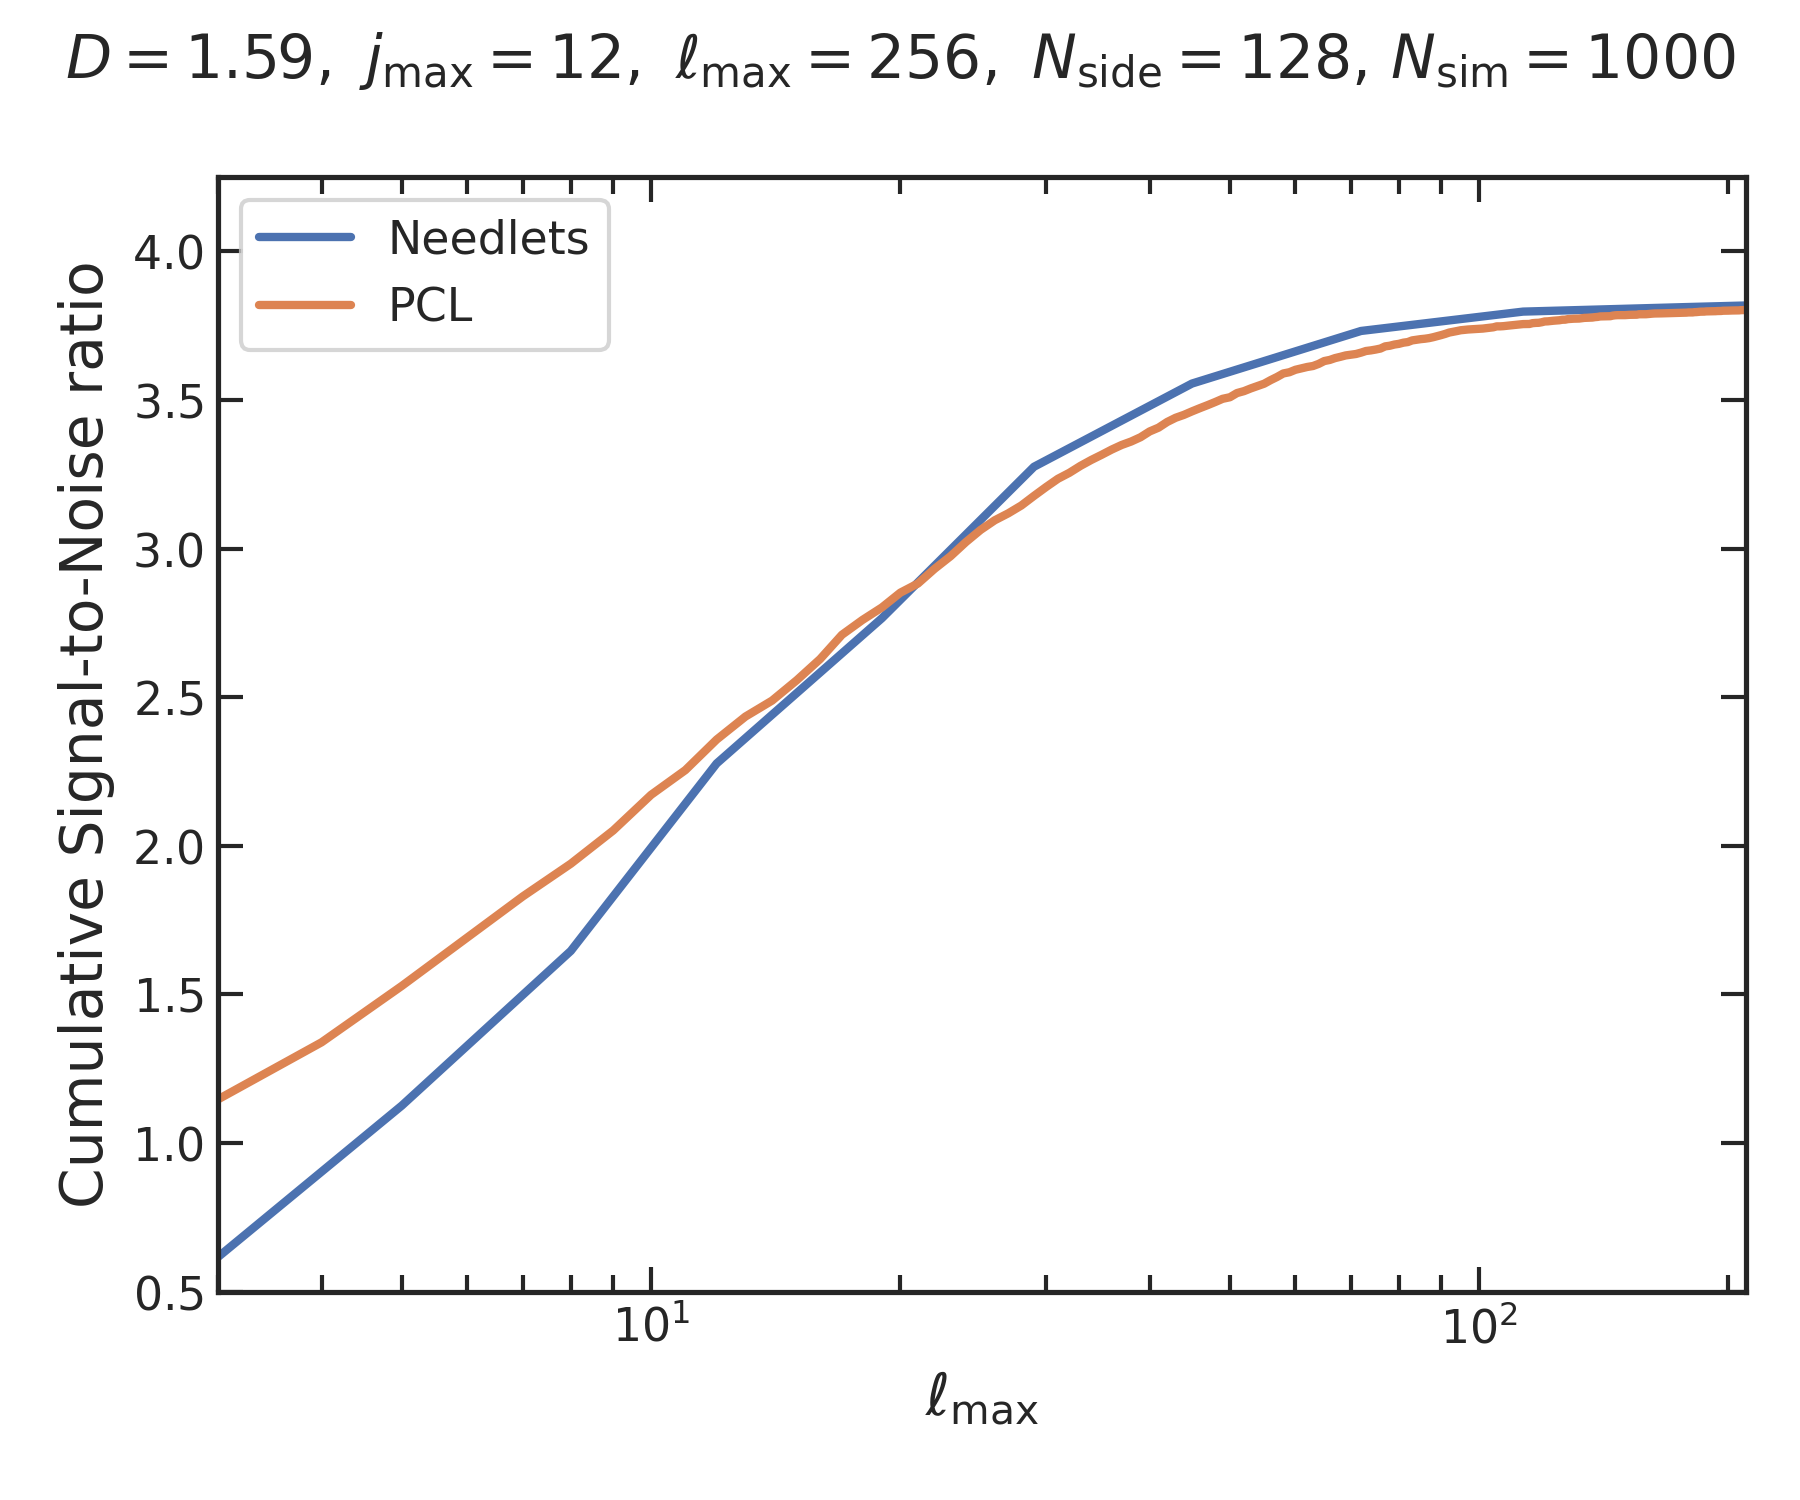
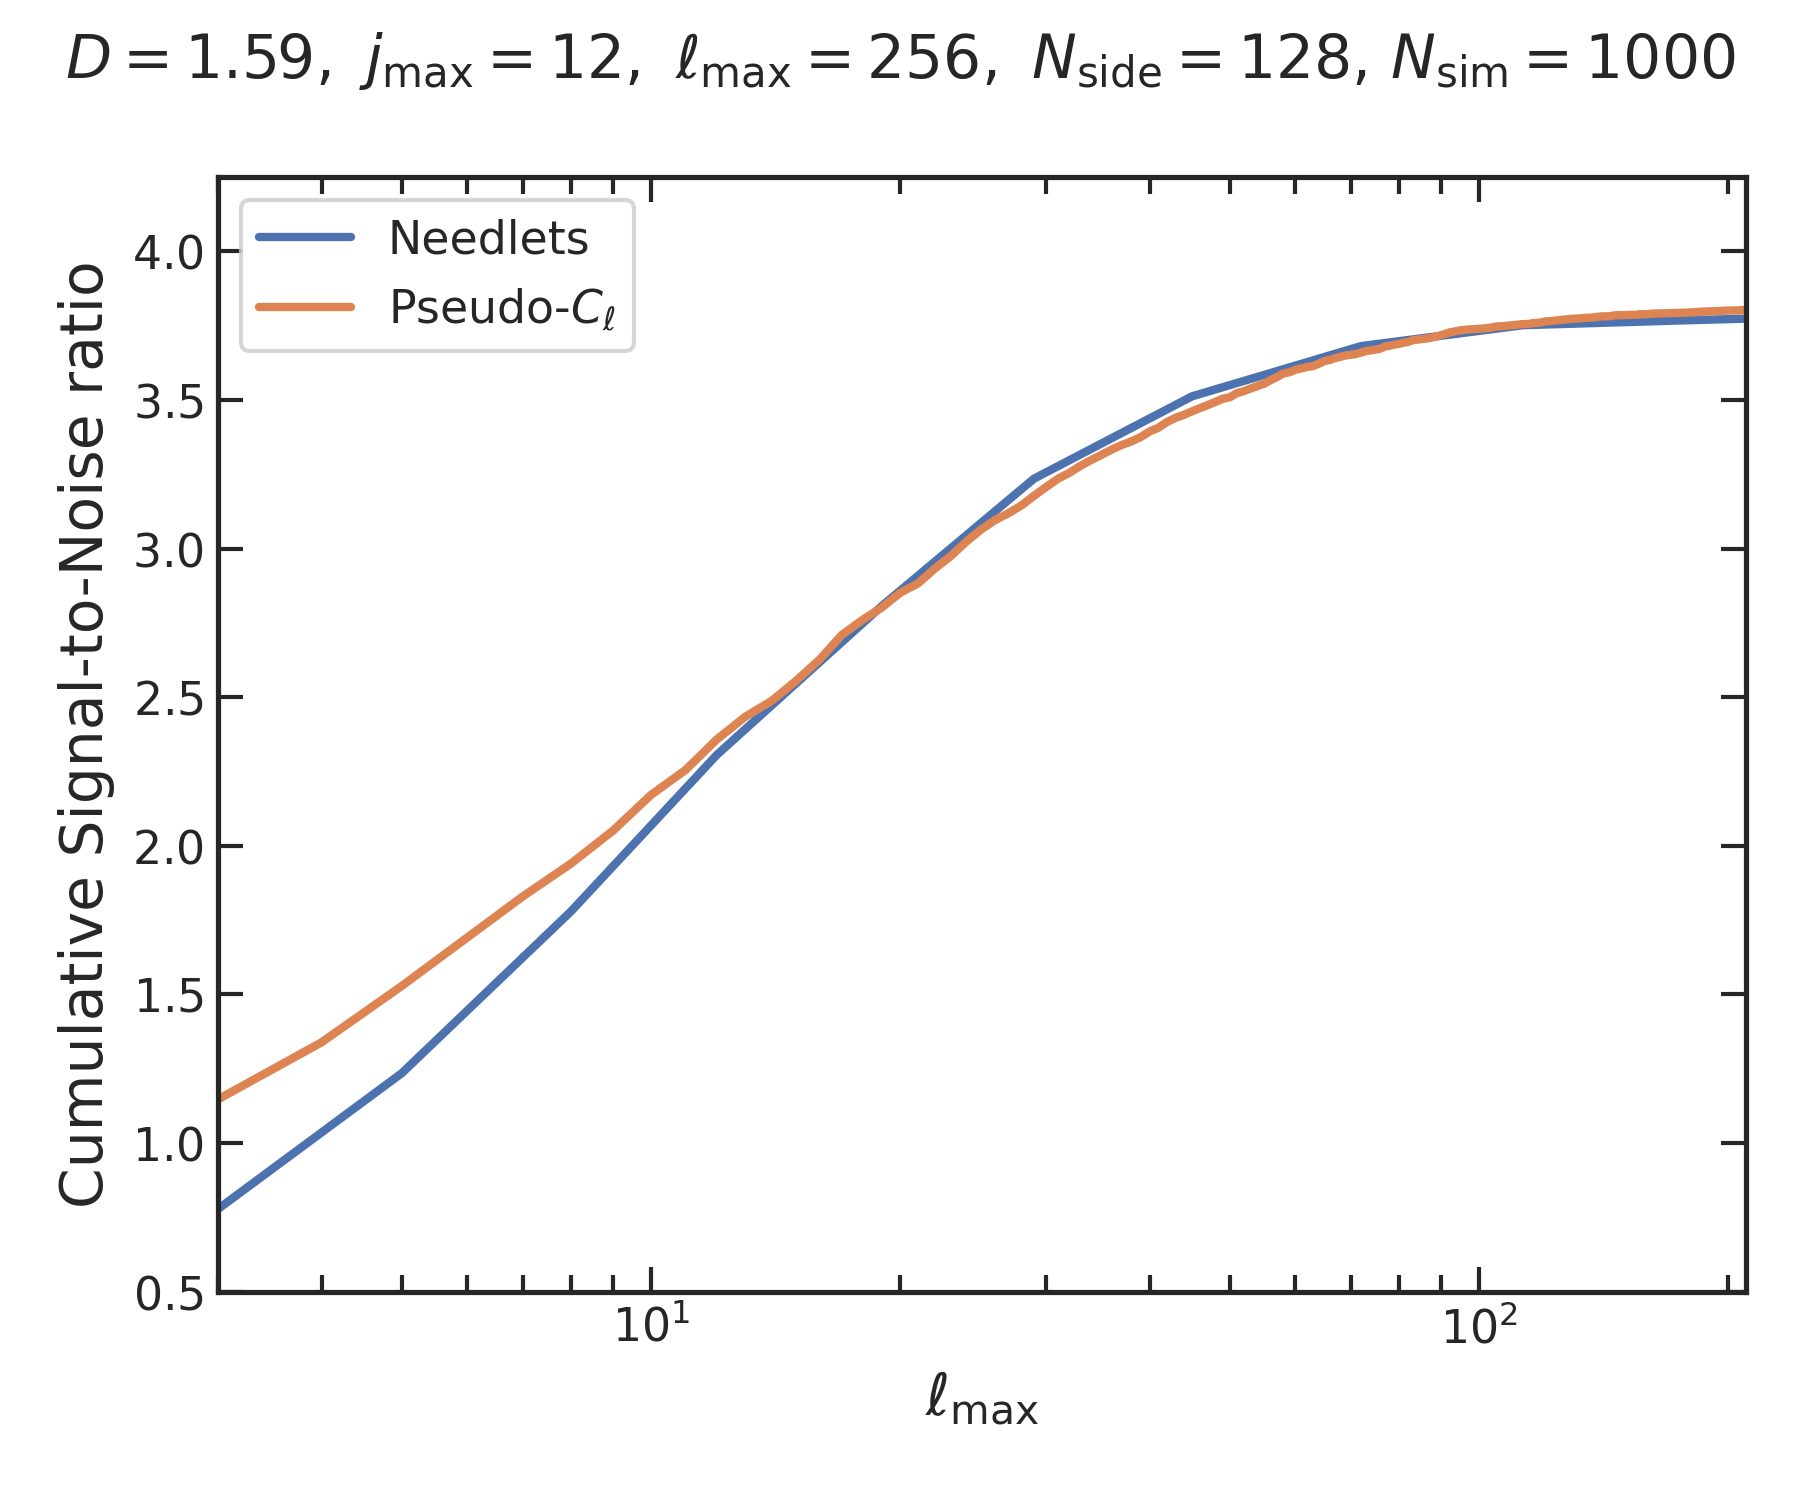
fixed some plots

diff --git a/src/S2N_new.py b/src/S2N_new.py
@@ -1,0 +1,304 @@
+#!/usr/bin/env python
+import numpy as np
+import matplotlib
+#matplotlib.use('Qt5Agg')
+
+import matplotlib.pyplot as plt
+from matplotlib import rc, rcParams, gridspec
+import healpy as hp
+from astropy.io import fits
+import os
+import cython_mylibc as mylibc
+import analysis, spectra, sims
+from IPython import embed
+import seaborn as sns
+sns.set_theme()
+sns.set_theme(style = 'white')
+pal = sns.color_palette("crest", n_colors=13)
+pal_cmap = sns.color_palette("crest", n_colors=13, as_cmap=True)
+
+sns.set_theme(style = 'white')
+plt.rcParams['lines.linewidth']  = 2.
+plt.rcParams['axes.labelsize']  =14
+plt.rcParams['xtick.major.width'] = 1
+plt.rcParams['ytick.major.width'] = 1
+plt.rcParams['xtick.minor.width'] = 1
+plt.rcParams['ytick.minor.width'] = 1
+plt.rcParams['savefig.dpi']=300
+
+import matplotlib as mpl
+mpl.rc('xtick', direction='in', top=True, bottom = True)
+mpl.rc('ytick', direction='in', right=True, left = True)
+
+from matplotlib import ticker
+formatter = ticker.ScalarFormatter(useMathText=True)
+formatter.set_scientific(True) 
+formatter.set_powerlimits((-1,1)) 
+
+###########################################################################################################
+################################################################################
+###PSEUDO
+
+def cov_pseudo_cl(cltg,cltt, clgg,Mll,  Mll_1x2, lmax, fsky=1.,noise_gal_l=None):
+	"""
+	Returns the Cov(Pseudo-C_\ell, Pseudo-C_\ell') 
+	Notes
+	-----
+	Cov(Pseudo-C_\ell, Pseudo-C_\ell') .shape = (lmax+1, lmax+1)
+	"""
+	if noise_gal_l is not None:
+		clgg_tot = clgg+noise_gal_l
+	else:
+		clgg_tot = clgg
+	ell= np.arange(lmax+1)
+	covll = np.zeros((ell.shape[0],ell.shape[0]))
+	for ell1 in ell:
+		for ell2 in ell:
+			covll[ell1,ell2] = (Mll_1x2[ell1,ell2]*(cltg[ell1]*cltg[ell2])+Mll[ell1,ell2]*(np.sqrt(cltt[ell1]*cltt[ell2]*clgg_tot[ell1]*clgg_tot[ell2])))/(fsky*(2.*ell1+1))
+	return covll
+
+def cov_cl(cltg,cltt, clgg, lmax,lmin, fsky=1.,noise_gal_l=None):
+	"""
+	Returns the Cov(Pseudo-C_\ell, Pseudo-C_\ell') 
+	Notes
+	-----
+	Cov(Pseudo-C_\ell, Pseudo-C_\ell') .shape = (lmax+1, lmax+1)
+	"""
+	if noise_gal_l is not None:
+		clgg_tot = clgg+noise_gal_l
+	else:
+		clgg_tot = clgg
+	ell= np.arange(lmin, lmax+1)
+	covll = np.zeros(( ell.shape[0], ell.shape[0]))
+	for l,ell1 in enumerate(ell):
+		for ll,ell2 in enumerate(ell):
+			if l!=ll: covll[l,ll]=0
+			else:
+				covll[l,ll] = (cltg[lmin:][l]*cltg[lmin:][ll]+np.sqrt(cltt[lmin:][l]*cltt[lmin:][ll]*clgg_tot[lmin:][l]*clgg_tot[lmin:][ll]))/(fsky*(2.*ell1+1))
+	return covll
+
+
+#################################################################################################################################
+# Parameters
+simparams = {'nside'   : 128,
+			 'ngal'    : 354543085.80126834,#35454308.580126834, #dovrebbe importare solo per lo shot noise (noise poissoniano)
+ 		 	 'ngal_dim': 'ster',
+		 	 'pixwin'  : False}
+
+nside = simparams['nside']
+
+lmax = 256
+nsim = 1000
+jmax= 12
+jvec=np.arange(jmax+1)
+# Paths
+fname_xcspectra = 'spectra/inifiles/EUCLID_fiducial_lmin0.dat'
+sims_dir        = f'sims/Euclid_sims_Marina/NSIDE{nside}/'
+out_dir         = f'output_needlet_TG/EUCLID/Mask_noise/TG_{nside}_nsim{nsim}_2masks_1/'
+path_inpainting = 'inpainting/inpainting.py'
+
+
+cl_theory = np.loadtxt('spectra/inifiles/EUCLID_fiducial_lmin0.dat')
+ell_theory = cl_theory[0]
+cl_theory_tt = cl_theory[1]
+cl_theory_tg = cl_theory[2]
+cl_theory_gg = cl_theory[3]
+
+#####################################################################
+# Loading theory spectra
+xcspectra = spectra.XCSpectraFile(fname_xcspectra,   WantTG = True)
+
+# Simulations class
+simulations = sims.KGsimulations(xcspectra, sims_dir, simparams, WantTG = True)
+simulations.Run(nsim, WantTG = True, EuclidSims=True)
+
+# Needlet Analysis
+myanalysis = analysis.NeedAnalysis(jmax, lmax, out_dir, simulations)
+B=myanalysis.B
+jvec = myanalysis.jvec
+out_dir_plot    = out_dir+f'plot_D{B:1.2f}/'
+if not os.path.exists(out_dir_plot):
+		os.makedirs(out_dir_plot)
+
+# Theory Needlet theory and windows functions
+need_theory = spectra.NeedletTheory(myanalysis.B)
+b_need = need_theory.get_bneed(jmax, lmax)
+########################################################################################################
+mask_eu = hp.read_map(f'mask/EUCLID/mask_rsd2022g-wide-footprint-year-6-equ-order-13-moc_ns0{nside}_G_filled_2deg2.fits')
+mask_pl = hp.read_map(f'mask/mask_temp_ns{nside}.fits')
+
+fsky_eu = np.mean(mask_eu)
+fsky_pl = np.mean(mask_pl)
+
+mask_comb = mask_pl*mask_eu
+
+fsky_comb = np.mean(mask_comb)
+print(f'fsky_pl = {fsky_pl}, fsky_eu={fsky_eu}, fsky={fsky_comb}')
+
+del mask_eu; del mask_comb; del mask_pl
+
+Nll = np.ones(cl_theory_gg.shape[0])/simparams['ngal']
+
+with fits.open('mask/EUCLID/kern_RSD2022G_T_G_TT.fits') as hdul:
+    Mll_cross = hdul[0].data
+
+Mll_pl_eu  = np.loadtxt(f'mask/EUCLID/kernel_Euclid_Planck_TTGG_lmax{lmax}.dat')
+Mll_comb  = np.loadtxt(f'mask/EUCLID/kernel_Euclid_Planck_TGTG_lmax{lmax}.dat')
+
+gammaj_TS_galT_mask = np.loadtxt(out_dir+f'gamma_sims_TS_galT_jmax12_B_1.59_nside128_fsky0.36.dat') 
+cov_TS_galT_mask = np.loadtxt(out_dir+f'cov_TS_galT_jmax12_B_1.59_nside128_fsky0.36.dat') 
+gammaj_TS_galT_mask_mean = np.mean(gammaj_TS_galT_mask, axis=0)
+
+gammaJ_tg = np.loadtxt(out_dir+'gammaj_tg_jmax12_lmax256.dat')
+delta_gammaj = np.loadtxt(out_dir+'covariance_gammaj_tg_jmax12_lmax256.dat')
+
+###################################
+# RELATIVE DIFFERENCE ESTIMATES 
+#fig = plt.figure()
+#
+#ax = fig.add_subplot(1, 1, 1)
+#
+#ax.axhline(ls='--', color='grey')
+#
+#ax.errorbar(jvec[1:], (gammaj_TS_galT_mask_mean[1:] /gammaJ_tg[1:]-1)*100, yerr=100*np.sqrt(np.diag(delta_gammaj)[1:])/(np.sqrt(nsim)*gammaJ_tg[1:]),  fmt='o', ms=0, label='Variance of the mean from theory')
+#ax.errorbar(jvec[1:], (gammaj_TS_galT_mask_mean[1:] /gammaJ_tg[1:]-1)*100, yerr=100*np.sqrt(np.diag(cov_TS_galT_mask)[1:])/(np.sqrt(nsim)*gammaJ_tg[1:]),  ms=3,fmt='o',  label='Variance of the mean from simulations')
+#
+#ax.legend(loc='best')
+#plt.ticklabel_format(style='sci', axis='y', scilimits=(0,0))
+#ax.yaxis.set_major_formatter(formatter) 
+#ax.set_xticks(jvec[1:])
+#ax.set_xticklabels(jvec[1:])
+#ax.set_xlabel(r'$j$')
+#ax.set_ylabel(r'$\% \langle \tilde{\Gamma}_j^{TG} \rangle/\tilde{\Gamma}_j^{TG, th}$-1')
+#
+#fig.tight_layout()
+
+
+
+###########################################################################################################
+cls_tg = np.loadtxt('cls_from_maps/EUCLID/Euclid_Planck_masks/cls_Tgalnoise_anafast_nside128_lmax256_Euclidnoise_Marina_nsim1000_fsky0.36.dat')
+cls_tg_mean=np.mean(cls_tg, axis=0)
+
+pcl = np.dot(Mll_pl_eu,cl_theory_tg[:lmax+1]) 
+cl_recovered = np.dot(np.linalg.inv(Mll_pl_eu[2:,2:]), cls_tg_mean[2:]) 
+
+
+cov_pcl_sim = np.cov(cls_tg.T)
+
+cov_pcl= cov_pseudo_cl(cltg=cl_theory_tg,cltt=cl_theory_tt, clgg=cl_theory_gg, Mll=Mll_cross,  Mll_1x2=Mll_comb, lmax=lmax,noise_gal_l=Nll)
+cov_cls = cov_cl(cltg=cl_theory_tg,cltt=cl_theory_tt, clgg=cl_theory_gg, lmax=lmax,lmin=2,fsky=0.36,noise_gal_l=Nll)
+
+#################################################################################################################
+ell = np.arange(lmax+1)
+factor = ell*(ell+1)/(2*np.pi)
+
+#fig = plt.figure()
+#plt.suptitle(r'CL recovered $ ,~\ell_{\mathrm{max}} =$'+str(lmax) + r'$ ,~N_{\mathrm{side}} =$'+str(simparams['nside']) + r',$~f_{sky} = %.2f$'%fsky_comb)
+#ax = fig.add_subplot(1, 1, 1)
+#ax.plot(ell[2:], factor[2:]*cl_theory_tg[2:lmax+1], label='Theory')
+#ax.plot(ell[2:], factor[2:]*cl_recovered,'+' ,label='Cl recovered')
+#ax.set_xlabel(r'$\ell$')
+#ax.set_ylabel(r'$\frac{\ell(\ell+1)}{2\pi}C^{\rm TG}_{\ell}$')
+#plt.legend()
+#
+#
+#fig = plt.figure(figsize=(7,4))
+#plt.suptitle(r'Mask PCL $ ,~\ell_{\mathrm{max}} =$'+str(lmax) + r'$ ,~N_{\mathrm{side}} =$'+str(simparams['nside']) + r',$~f_{sky} = %.2f$'%fsky_comb)
+#ax = fig.add_subplot(1, 1, 1)
+#ax.errorbar(ell[2:],  (cls_tg_mean[2:]/pcl[2:]-1)*100, yerr=100*np.sqrt(np.diag(cov_pcl)[2:])/(np.sqrt(nsim)*pcl[2:]),   fmt='o', ms=0, label='Variance of the mean from theory')
+#ax.errorbar(ell[2:],  (cls_tg_mean[2:]/pcl[2:]-1)*100, yerr=100*np.sqrt(np.diag(cov_pcl_sim)[2:])/(np.sqrt(nsim)*pcl[2:]),   ms=3,fmt='o',  label='Variance of the mean from simulations')
+#
+#ax.axhline(ls='--', color='grey')
+#ax.set_xlabel(r'$\ell$')
+#ax.set_ylabel('% relative diff ')
+#plt.legend()
+
+#########################################################################
+######################### SIGNAL - TO - NOISE ###########################
+
+def fl_j(j_m):
+	ell_binning=need_theory.ell_binning(jmax, lmax)
+	l_j = np.zeros(j_m+1, dtype=int)
+	
+	for j in range(1,l_j.shape[0]):
+			ell_range = ell_binning[j][ell_binning[j]!=0]
+			if ell_range.shape[0] == 1:
+				l_j[j] = ell_range
+			else:
+				l_j[j] = int(ell_range[int(np.ceil((len(ell_range))/2))])
+	return l_j
+
+def S_2_N(beta, cov_matrix):
+	s_n = np.zeros(len(beta))
+	cov_inv = np.linalg.inv(cov_matrix)
+	temp = np.zeros(len(cov_matrix[0]))
+	for i in range(len(cov_matrix[0])):
+		for j in range(len(beta)):
+			temp[i] += cov_inv[i][j]*beta[j]
+		s_n[i] = beta[i].T*temp[i]
+	return s_n
+
+def S_2_N_th(beta, variance):
+	s_n = np.divide((beta)**2, variance)
+	return s_n
+
+def S_2_N_cum(s2n, jmax):
+	s2n_cum = np.zeros(jmax.shape[0])
+	for j,jj in enumerate(jmax):
+		for ijj in range(jj):
+			s2n_cum[j] +=s2n[ijj]
+		s2n_cum[j]= np.sqrt(s2n_cum[j])      
+	return s2n_cum
+
+def S_2_N_ell(cltg, cov):
+	icov= np.linalg.inv(cov)
+	nell  = cltg.shape[0]
+	s2n = np.zeros(nell)
+	for il in range(nell):
+		for iil in range(nell):
+			s2n[il] += np.dot(cltg[il], np.dot(icov[il, iil], cltg[iil]))
+	return s2n
+
+def S_2_N_cum_ell(s2n, lmax):
+	s2n_cum = np.zeros(lmax.shape[0])
+	for l,ell in enumerate(lmax):
+		for ill in range(ell):
+			s2n_cum[l] += s2n[ill]
+		s2n_cum[l]= np.sqrt(s2n_cum[l])      
+	return s2n_cum
+
+############################################################################
+
+lmax_vec=fl_j(jmax)
+lmax_vec_cl = np.arange(start=2,stop=256,dtype=int)
+
+s2n_mean_sim=S_2_N(gammaj_TS_galT_mask_mean[1:jmax+1], delta_gammaj[1:jmax+1,1:jmax+1])
+s2n_cum = S_2_N_cum(s2n_mean_sim, jvec)
+
+s2n_mean_sim_cl=S_2_N_ell(cl_recovered, cov_cls)
+s2n_cum_cl = S_2_N_cum_ell(s2n_mean_sim_cl,lmax_vec_cl)
+
+
+print(f's2n_cum_lmax_need:{s2n_cum[-1]:0.2f}, s2n_cum_lmax_pcl:{s2n_cum_cl[-1]:0.2f}')
+
+fig = plt.figure(figsize=(6,5))
+
+ax = fig.add_subplot(1, 1, 1)
+ax.plot(lmax_vec, s2n_cum, label='Needlets')
+ax.plot(lmax_vec_cl, s2n_cum_cl, label= 'PCL')
+ax.set_xscale('log')
+ax.set_xlim(left=3, right=200)
+ax.set_ylim(bottom=0.5,top=4.25)
+
+plt.ticklabel_format(style='sci', axis='y', scilimits=(0,0))
+ax.yaxis.set_major_formatter(formatter) 
+
+ax.set_xlabel(r'$\ell_{\mathrm{max}}$')
+ax.set_ylabel('Cumulative Signal-to-Noise ratio')
+ax.legend()
+
+fig.tight_layout()
+
+
+
+plt.show()

diff --git a/src/TG_needlet_EUCLID_definitive_2masks.py b/src/TG_needlet_EUCLID_definitive_2masks.py
@@ -278,13 +278,14 @@ plt.suptitle(r'$D = %1.2f $' %myanalysis.B +r'$ ,~j_{\mathrm{max}} =$'+str(jmax)
 
 ax = fig.add_subplot(1, 1, 1)
 
-ax.plot(myanalysis.jvec[1:], (np.sqrt(np.diag(cov_TS_galT_mask)[1:])/np.sqrt(np.diag(delta_gammaj)[1:])-1)*100 ,'o',color='#2b7bbc')#, label='MASK')
+ax.plot(myanalysis.jvec[1:jmax], (np.sqrt(np.diag(cov_TS_galT_mask)[1:jmax])/np.sqrt(np.diag(delta_gammaj)[1:jmax])-1)*100 ,'o',color='#2b7bbc')#, label='MASK')
 ax.axhline(ls='--', color='grey')
+ax.set_ylim([-25,25])
 
 plt.ticklabel_format(style='sci', axis='y', scilimits=(0,0))
 ax.yaxis.set_major_formatter(formatter) 
-ax.set_xticks(myanalysis.jvec[1:])
-ax.set_xticklabels(myanalysis.jvec[1:])
+ax.set_xticks(np.arange(0,jmax+1, 2))
+ax.set_xticklabels(np.arange(0,jmax+1, 2))
 ax.set_xlabel(r'$j$')
 ax.set_ylabel(r'% $\sigma_{\mathrm{sims}}/\sigma_{\mathrm{analytic}}$ - 1')
 
@@ -331,8 +332,10 @@ axs[2].axhline(color='k', ls='--',linewidth=1.0)
 axs[2].plot(myanalysis.jvec[1:jmax],(gammaj_TS_galT_mask_mean[1:jmax]-gammaJ_tg[1:jmax]) / (np.sqrt(np.diag(cov_TS_galT_mask)[1:jmax])/(np.sqrt(nsim))), 'o')
 axs[2].set_ylabel(r'$\Delta \tilde{\Gamma}_j^{TG} /\sigma$')
 axs[2].set_ylim([-4,4])
-axs[2].set_xticks(myanalysis.jvec[1:jmax])
+axs[2].set_xticks(np.arange(0,jmax+1, 2))
+axs[2].set_xticklabels(np.arange(0,jmax+1, 2))
 axs[2].set_xlabel('j')
+
 plt.savefig(out_dir_plot+f'summary_results_sims_jmax{jmax}_lmax{lmax}_D{myanalysis.B:1.2f}_nsim{nsim}_nside{nside}.png')
 
 ################################################################################
@@ -502,7 +505,7 @@ def S_2_N_cum_ell(s2n, lmax):
 lmax_vec=fl_j(jmax)
 lmax_vec_cl = np.arange(start=2,stop=256,dtype=int)
 
-s2n_mean_sim=S_2_N(gammaj_TS_galT_mask_mean[1:jmax+1], cov_TS_galT_mask[1:jmax+1,1:jmax+1])
+s2n_mean_sim=S_2_N(gammaj_TS_galT_mask_mean[1:jmax+1], delta_gammaj[1:jmax+1,1:jmax+1])
 
 s2n_cum = S_2_N_cum(s2n_mean_sim, myanalysis.jvec)
 #s2n_mean_sim_cl=S_2_N_ell(cls_tg_mean[2:], cov_pcl[2:,2:])
@@ -525,7 +528,7 @@ plt.suptitle(r'$D = %1.2f $' %myanalysis.B +r'$ ,~j_{\mathrm{max}} =$'+str(jmax)
 
 ax = fig.add_subplot(1, 1, 1)
 ax.plot(lmax_vec, s2n_cum, label='Needlets')
-ax.plot(lmax_vec_cl, s2n_cum_cl, label= 'PCL')
+ax.plot(lmax_vec_cl, s2n_cum_cl, label= r'Pseudo-$C_{\ell}$')
 ax.set_xscale('log')
 ax.set_xlim(left=3, right=210)
 ax.set_ylim(bottom=0.5,top=4.25)
